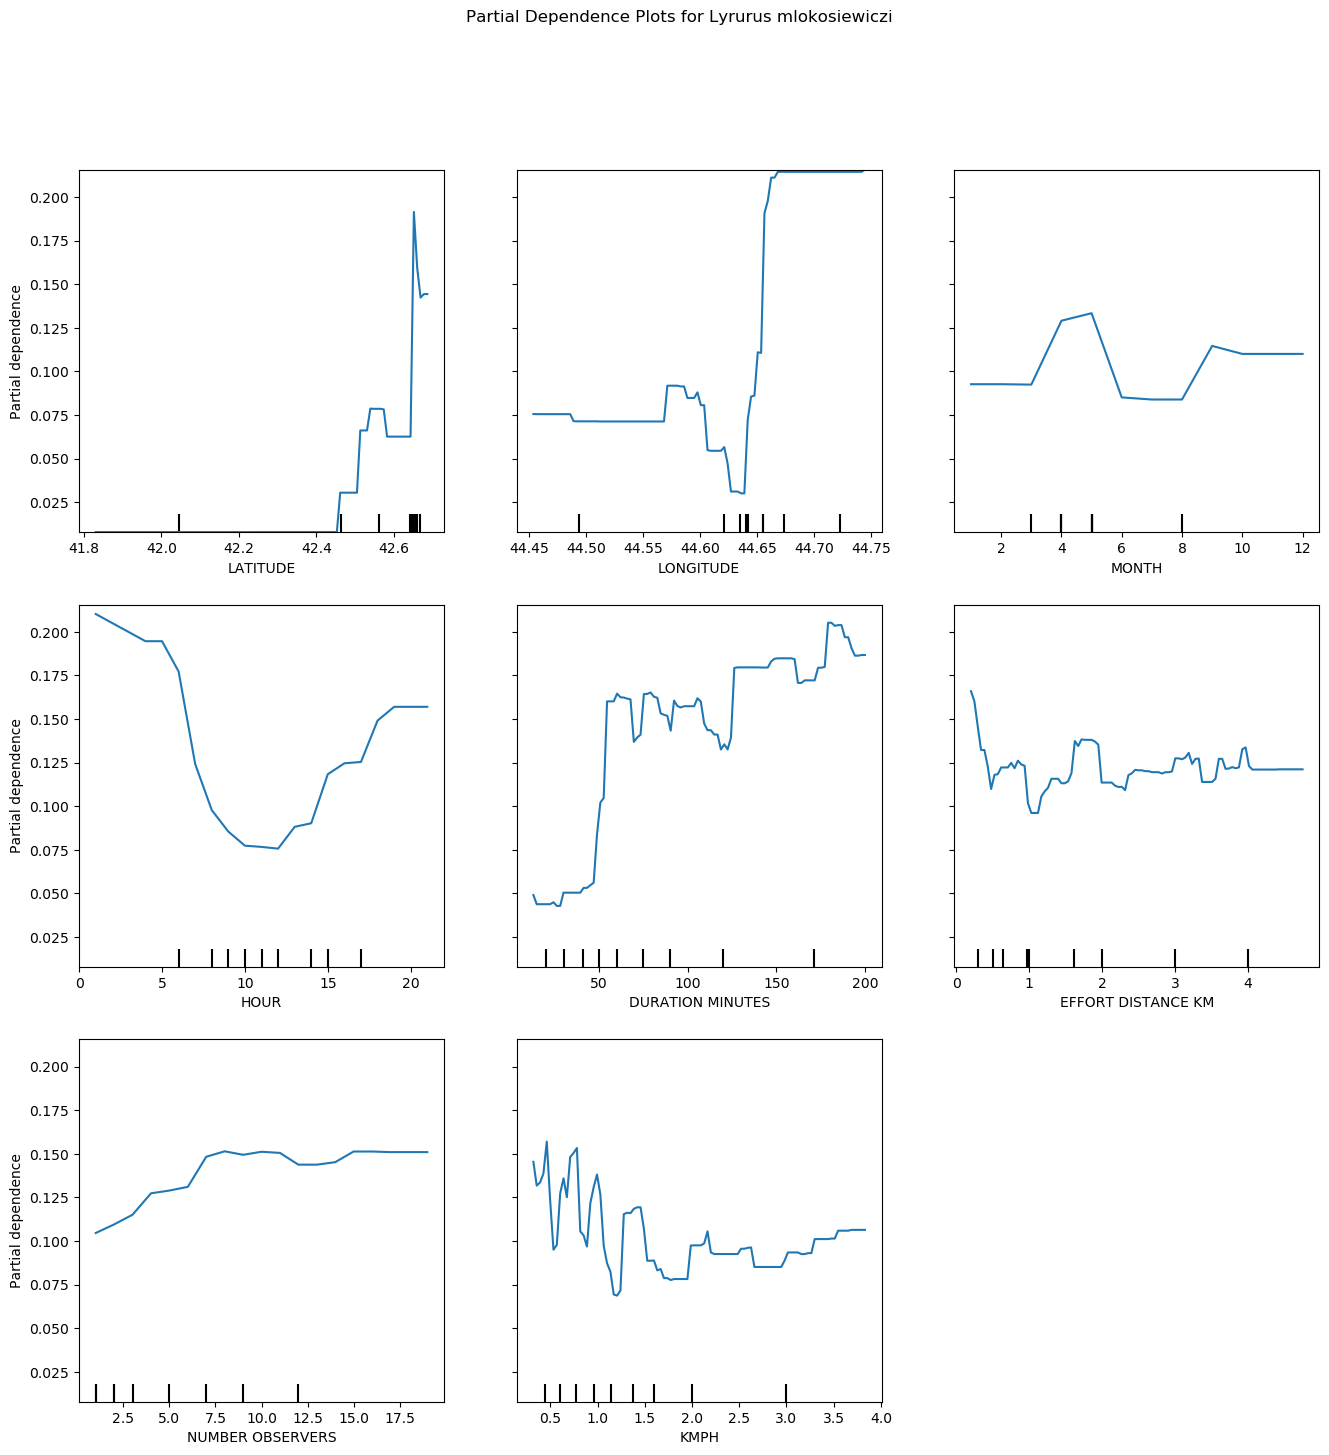
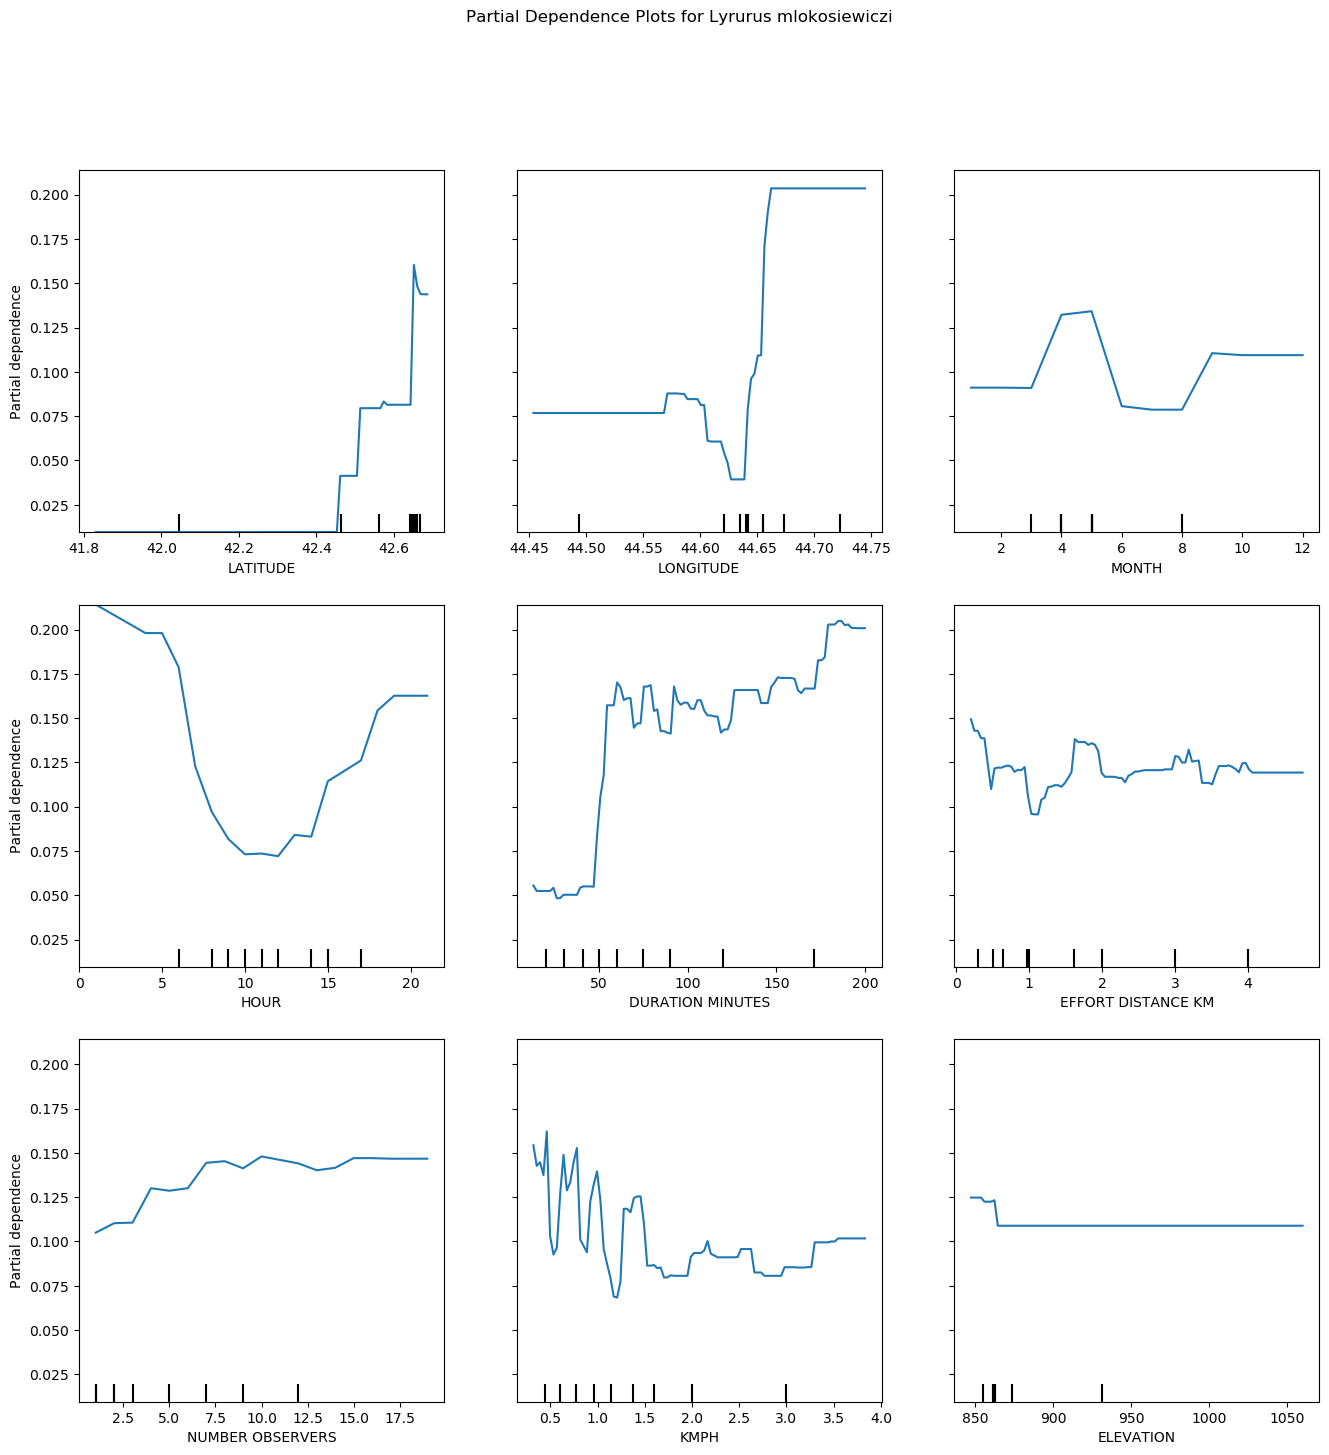
Include elevation in model + README

diff --git a/model_occurence.py b/model_occurence.py
@@ -1,8 +1,12 @@
 import pandas as pd
+import numpy as np
+from time import sleep
 from xgboost import XGBClassifier
 from sklearn.model_selection import train_test_split
 from sklearn.metrics import f1_score
 from sklearn.inspection import PartialDependenceDisplay
+import requests
+import json
 import matplotlib.pyplot as plt
 
 RANDOM_STATE = 0
@@ -46,9 +50,21 @@ dfg['MONTH'] = dfg['OBSERVATION DATE'].apply(lambda x: int(x[5:7]))
 dfg['HOUR'] = dfg['TIME OBSERVATIONS STARTED'].apply(lambda x: int(x[:2]))
 dfg['KMPH'] = dfg['EFFORT DISTANCE KM'] * 60 / dfg['DURATION MINUTES']
 
+# Method to calculate elevation based on API
+def request_elevation(lat, lon):
+    try:
+        res = requests.get(f'https://api.opentopodata.org/v1/test-dataset?locations={lat},{lon}').content
+        elevation = json.loads(res)['results'][0]['elevation']
+    except:
+        elevation = np.nan
+        print(f'Failed to retrieve elevation for {lat}, {lon}')
+    return elevation
+
+dfg['ELEVATION'] = dfg.apply(lambda x: request_elevation(x['LATITUDE'], x['LONGITUDE']), axis=1)
+
 # Training columns for models (note: predicted classes are species)
 MODEL_COLS = ['LATITUDE', 'LONGITUDE', 'MONTH', 'HOUR', 'DURATION MINUTES', 'EFFORT DISTANCE KM',
-              'NUMBER OBSERVERS', 'KMPH']
+              'NUMBER OBSERVERS', 'KMPH', 'ELEVATION']
 
 # Debug stats
 print(dfg[MODEL_COLS + SPECIES])

diff --git a/README.md b/README.md
@@ -48,6 +48,26 @@ These graphs are not perfect for two reasons. Firstly, an observation on eBird c
 
 Secondly, observers may be out looking for the birds more commonly at certain times. While most observations of the birds are in the morning, this does not show whether observers are out more in the morning or whether the birds are more likely to be seen in the morning.
 
+An alternative is to model the occurence of the birds and then analyse the models to see what times the birds are most active.
+
+## Modelling Occurence
+
+We will fit a simple XGBoost model (a gradient boosted random tree model) to model the occurence of the two caucasian birds.
+
+The features we will use in our model are: latitude, longitude, month, hour, duration, distance travelled, number of birders, speed of travel, and elevation.
+
+All features can be obtained from the eBird data except for elevation. To obtain elevation we will use the Open Topo Data API, which requires an API call for each row of data. Since we do not have tens of thousands of rows of data this will not be an issue, but we would need an alternative method if we had more checklists.
+
+The modelling is done in `model_occurence.py`.
+
+## Partial Dependence Plots: Optimising Factors
+
+Once we have our model we can create partial dependence plots to see how we can optimise each factor.
+
+![Partial dependence plots for Caucasian grouse sightings](./fig/lyrurus_mlokosiewiczi_partial_dependence_all.png)
+
+![Partial dependence plots for Caucasian snowcock sightings](./fig/tetraogallus_caucasicus_partial_dependence_all.png)
+
 ## Similarly Sighted Species
 
 Birds rarely inhabit an environment by themselves. If we are looking for the caucasian grouse or caucasian snowcock, what other birds might we spot that could indicate we are in the right environment?
